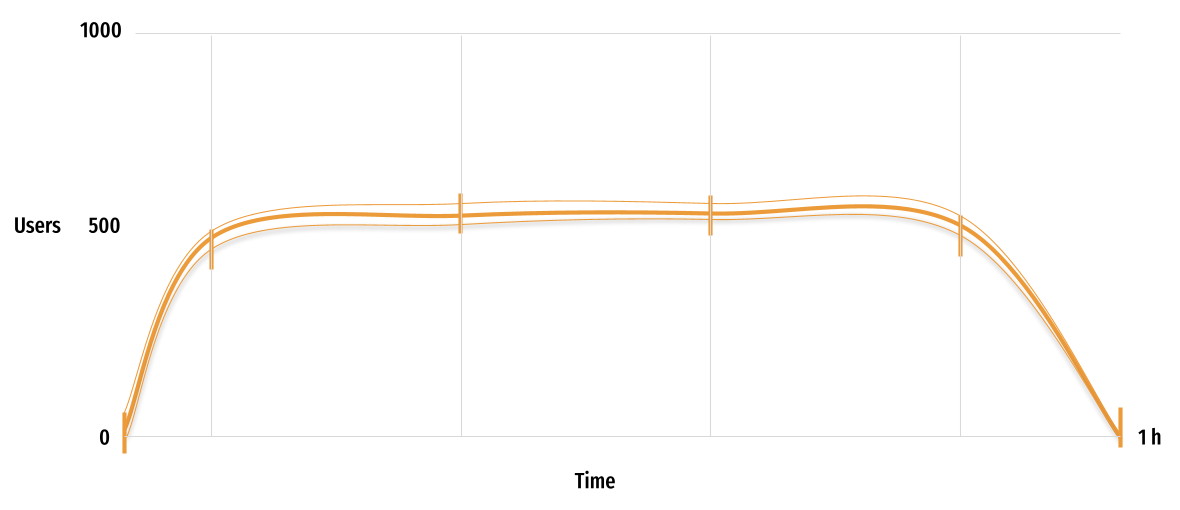
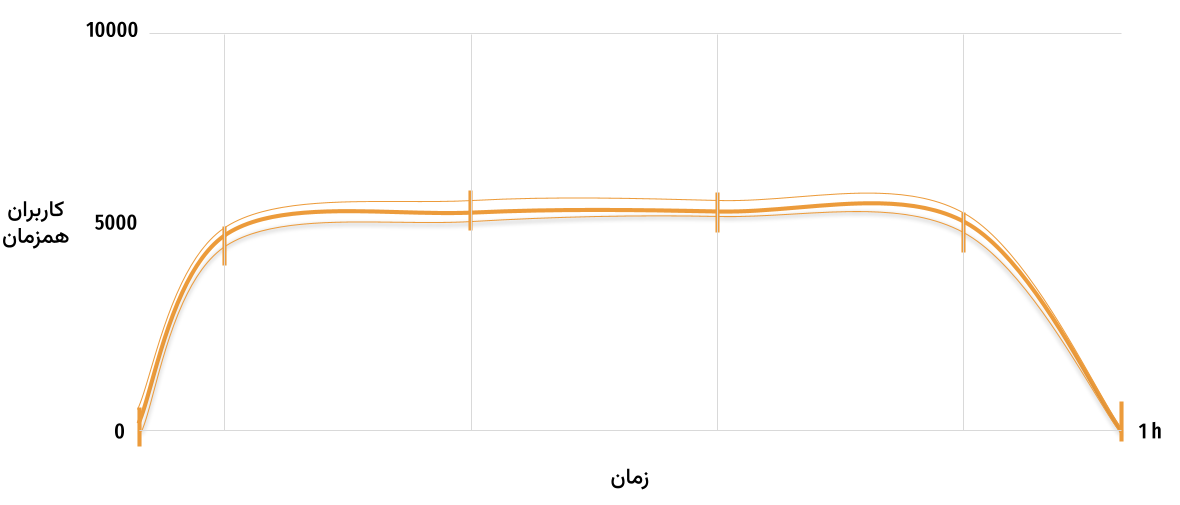
Increase users in performance chart and add contact-us to performance service content.

diff --git a/our-services/performance/content.md b/our-services/performance/content.md
@@ -1,5 +1,5 @@
 ## چرا تست کارایی مورد نیاز شماست
-شرایطی را فرض کنید که محصول نرمافزاری شما تمامی قابلیتهای مورد انتظار را دارا میباشد اما پس از استقرار در محیط عملیاتی یا تحویل به مشتری متوجه میشوید پس از گذشت زمان دچار اختلالاتی میگردد یا با افزایش تعداد کاربران عملکرد معمول خود را از دست میدهد. اگر محصول شما نتواند به صورت پایدار و کارا عمل کند تمامی قابلیتهای توسعه داده شده در زمان اجرا بلا استفاده خواهند بود. راهحل این مشکلات بررسی محصول با استفاده از مکانیزمهای ارزیابی کارایی میباشد.
+شرایطی را فرض کنید که محصول نرمافزاری شما تمامی قابلیتهای مورد انتظار را دارا میباشد اما بعد از استقرار در محیط عملیاتی یا تحویل به مشتری متوجه میشوید پس از گذشت زمان دچار اختلالاتی میگردد یا با افزایش تعداد کاربران عملکرد معمول خود را از دست میدهد. اگر محصول شما نتواند به صورت پایدار و کارا عمل کند تمامی قابلیتهای توسعه داده شده در زمان اجرا بلا استفاده خواهند بود. راهحل این مشکلات بررسی محصول با استفاده از مکانیزمهای ارزیابی کارایی میباشد.
 تست کارایی یا performance به مجموعهای از تستها گفته میشود که وظیفه ارزیابی سیستم با شرایطی شبیه به محیط واقعی و عملیاتی از نظر کاربر، منابع و زمان را دارند تا این اطمینان حاصل گردد که سیستم در زمان تحویل به مشتری یا استقرار به صورت عملیاتی، مشکلاتی از قبیل عدم پشتیبانی از کاربران با تعداد زیاد یا پایداری را ندارد. اما انواع تست کارایی چیست؟ و کدام تست برای محصول شما مورد نیاز است؟
 
 
@@ -7,7 +7,7 @@
 
 ![load-test-pic](./resources/load-test.png "load-test")
 
- این تست به منظور ارزیابی سیستم با شرایط و متغیرهایی نزدیک محیط عملیاتی در مدت زمان ۳۰ تا ۶۰ دقیقه انجام میگیرد. به عنوان مثال بر اساس ارزیابیهای انجام شده سیستم باید بتواند تعاملات ۱۰۰۰ کاربر همزمان را پشتیبانی نماید و مشابه این حالت بار بر روی سیستم تزریق میگردد.
+ این تست به منظور ارزیابی سیستم با شرایط و متغیرهایی نزدیک محیط عملیاتی در مدت زمان ۳۰ تا ۶۰ دقیقه انجام میگیرد. به عنوان مثال بر اساس ارزیابیهای انجام شده سیستم باید بتواند تعاملات ۵۰۰۰ کاربر همزمان را پشتیبانی نماید. به منظور پیادهسازی تست بار، مشابه حالت ذکر شده شبیهسازی گردیده و بار مورد نظر بر روی سیستم تزریق میگردد.
 
 ::: warning
 تست بار مهمترین و پایهای ترین تست کارایی میباشد که میبایست برای هر محصولی پیادهسازی و اجرایی گردد.
@@ -16,19 +16,19 @@
 
 ![stress-test-pic](./resources/stress-test.png "stress-test")
 
- در این آزمون، سیستم با شرایطی بیش از ظرفیت ارزیابی شده برای تست بار مورد سنجش قرار میگیرد. میزان افزایش بار تا زمان استخراج توان بهینه و حداکثر توان عملیاتی سیستم ادامه مییابد. به عنوان نمونه حالت توان معمول سیستم بر اساس تست بار ۵۰۰ کاربر همزمان میباشد. آزمون استرس بر اساس ۲۰۰۰ کاربر همزمان طراحی و اجرا میگردد که طی آن مشخص میگردد سیستم کارایی خود را با بیش از ۱۰۰۰ کاربر از دست داده و دچار خطا میگردد. 
+ در این آزمون، سیستم با شرایطی بیش از ظرفیت ارزیابی شده برای تست بار مورد سنجش قرار میگیرد. میزان افزایش بار تا زمان استخراج توان بهینه و حداکثر توان عملیاتی سیستم ادامه مییابد. به عنوان نمونه حالت توان معمول سیستم بر اساس تست بار ۳۰۰۰ کاربر همزمان میباشد. آزمون استرس بر اساس ۱۰۰۰۰ کاربر همزمان طراحی و اجرا میگردد که طی آن مشخص میگردد سیستم کارایی خود را با جه تعداد کاربر همزمان از دست داده و دچار خطا میگردد. 
 ## تست ضربه (spike, peak)
 
 ![spike-test-pic](./resources/spike-test.png "spike-test")
 
- این آزمون با استفاده از افزایش ناگهانی حجم کاربران یا ورودیهای سیستم انجام می پذیرد. هدف این آزمون بررسی رفتار سیستم پس از هر پیک میباشد و سیستم باید بتواند بعد از هر افزایش بار و برگشت به حالت عادی به روند طبیعی خود ادامه دهد. به عنوان نمونه سیستم با ورودی ۵۰۰ کاربر همزمان که حد معمول آن میباشد در حال ارزیابی بوده و در مقطعی از زمان تعداد کاربران همزمان به ۲۰۰۰ کاربر که چندین برابر ظرفیت آن میباشد میرسد و سپس به سرعت به روند معمول باز میگردد. سیستم در چنین شرایطی میبایست در مقطعی دچار اختلال یا افزایش زمان دسترسی گردد و سپس به حالت عادی خود بازگردد.
+ این آزمون با استفاده از افزایش ناگهانی حجم کاربران یا ورودیهای سیستم انجام می پذیرد. هدف این آزمون بررسی رفتار سیستم پس از هر پیک میباشد و سیستم باید بتواند بعد از هر افزایش بار و برگشت به حالت عادی به روند طبیعی خود ادامه دهد. به عنوان نمونه سیستم با ورودی ۳۰۰۰ کاربر همزمان که حد معمول آن میباشد در حال ارزیابی بوده و در مقطعی از زمان تعداد کاربران همزمان به ۱۰۰۰۰ که چند برابر ظرفیت آن میباشد میرسد و سپس به سرعت به روند معمول باز میگردد. سیستم در چنین شرایطی میبایست در مقطعی دچار اختلال یا افزایش زمان دسترسی گردد و سپس به حالت عادی خود بازگردد.
 ## تست پایداری (endurance, stability)
 
 ![stability-test-pic](./resources/stability-test.png "stability-test")
 
- تست پایداری به منظور بررسی سیستم با شرایط مشابه محیط عملیاتی مانند تست Load اما در زمانی طولانی تری انجام میگردد. در این تست متغیر ما زمان است و میخواهیم وضعیت محصول را در مدت بیشتری ارزیابی نماییم تا مشکلاتی از قبیل نشت حافظه یا عدم استفاده بهینه از منابع شناسایی گردند. به عنوان نمونه ۱۰۰۰ کاربر در حال تعامل با سیستم به مدت چند روز یا چند هفته میباشند. البته باید در نظر داشت به منظور اطمینان از این موضوع که سیستم طی مدت طولانی مثلا ۱ سال دچار مشکل نمیشود نمیتوان این آزمون را برای ۱ سال اجرایی نمود ولی با یک ضریب میتوان اطمینان پیدا کرد سیستم پایداری مطلوبی دارد. به عنوان نمونه میتوان سیستم را با شرایط بار معمول ۵۰۰ کاربر همزمان طی یک هفته ارزیابی نمود و طی این زمان، میزان مصرف حافظه، میزان سوکتهای شبکه و کانکشن به پایگاهداده میبایست روند مشخص و مورد انتظاری را طی کنند.
+ تست پایداری به منظور بررسی سیستم با شرایط مشابه محیط عملیاتی مانند تست load اما در زمانی طولانیتری پیادهسازی میگردد. در این تست متغیر اصلی زمان است و میبایست وضعیت محصول  در مدت بیشتری ارزیابی گردد تا مشکلاتی از قبیل نشت حافظه یا عدم استفاده بهینه از منابع شناسایی گردند. به عنوان نمونه ۵۰۰۰ کاربر در حال تعامل با سیستم به مدت چند روز یا چند هفته میباشند. البته باید در نظر داشت به منظور اطمینان از این موضوع که سیستم طی مدت طولانی مثلا ۱ سال دچار مشکل نمیگردد، نمیتوان این آزمون را برای ۱ سال اجرایی نمود ولی با یک ضریب میتوان اطمینان پیدا کرد سیستم پایداری مطلوبی دارد. به عنوان نمونه میتوان سیستم را با شرایط بار معمول ۵۰۰۰ کاربر همزمان طی یک هفته ارزیابی نمود و طی این زمان، میزان مصرف حافظه، میزان سوکتهای شبکه و کانکشن به پایگاهداده میبایست روند مشخص و مورد انتظاری را طی کنند.
 
 ::: info
 ما در گزمه با استفاده از تجربیات خود تمامی تستهای کارایی را به منظور حصول اطمینان شما از محصولتان انجام می دهیم.
-از طریق بخش [نحوه کار](https://gazmeh.ir/how-to-use) از روند کار مطلع شده و با ما تماس بگیرید.
+برای آشنایی با فرآیند درخواست سرویس به بخش [نحوه کار](https://gazmeh.ir/how-to-use) و برای شروع درخواست به صفحه [تماس با ما](https://gazmeh.ir/contact-us) مراجعه کنید.
 :::
